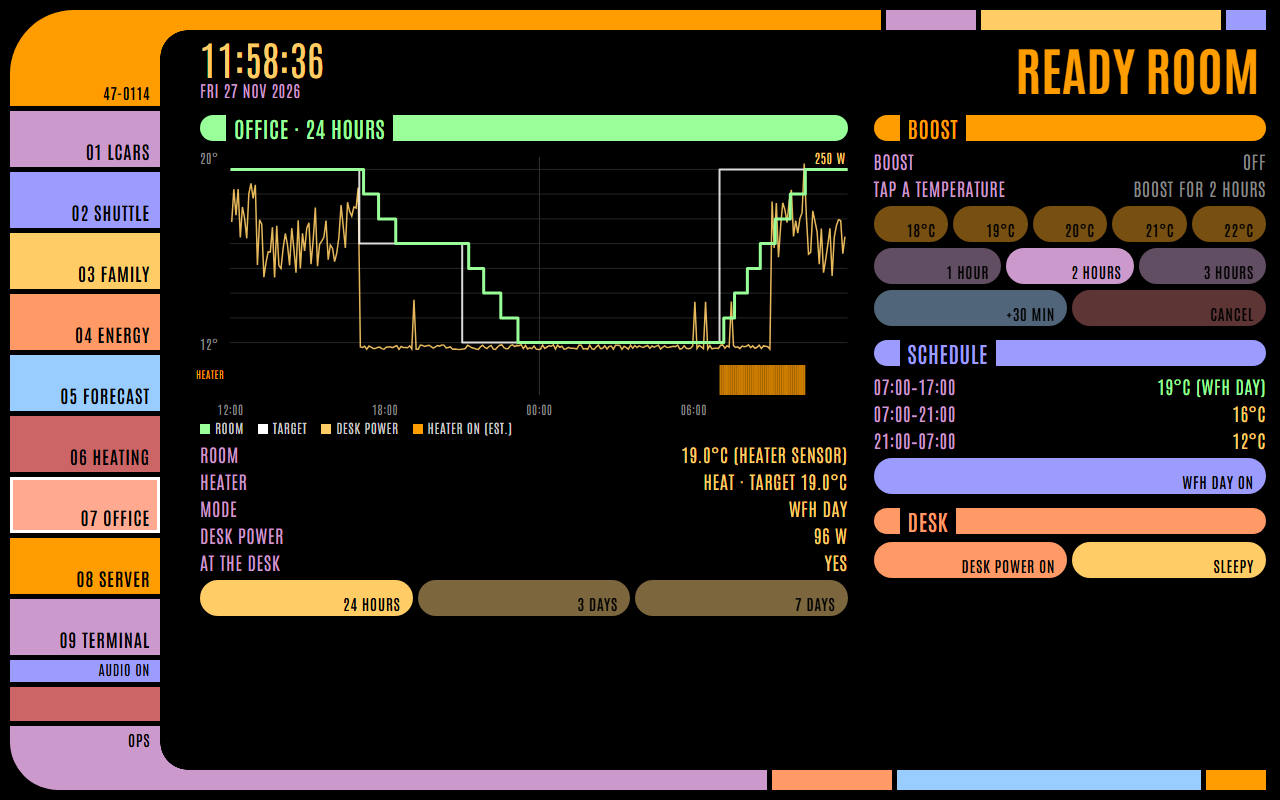
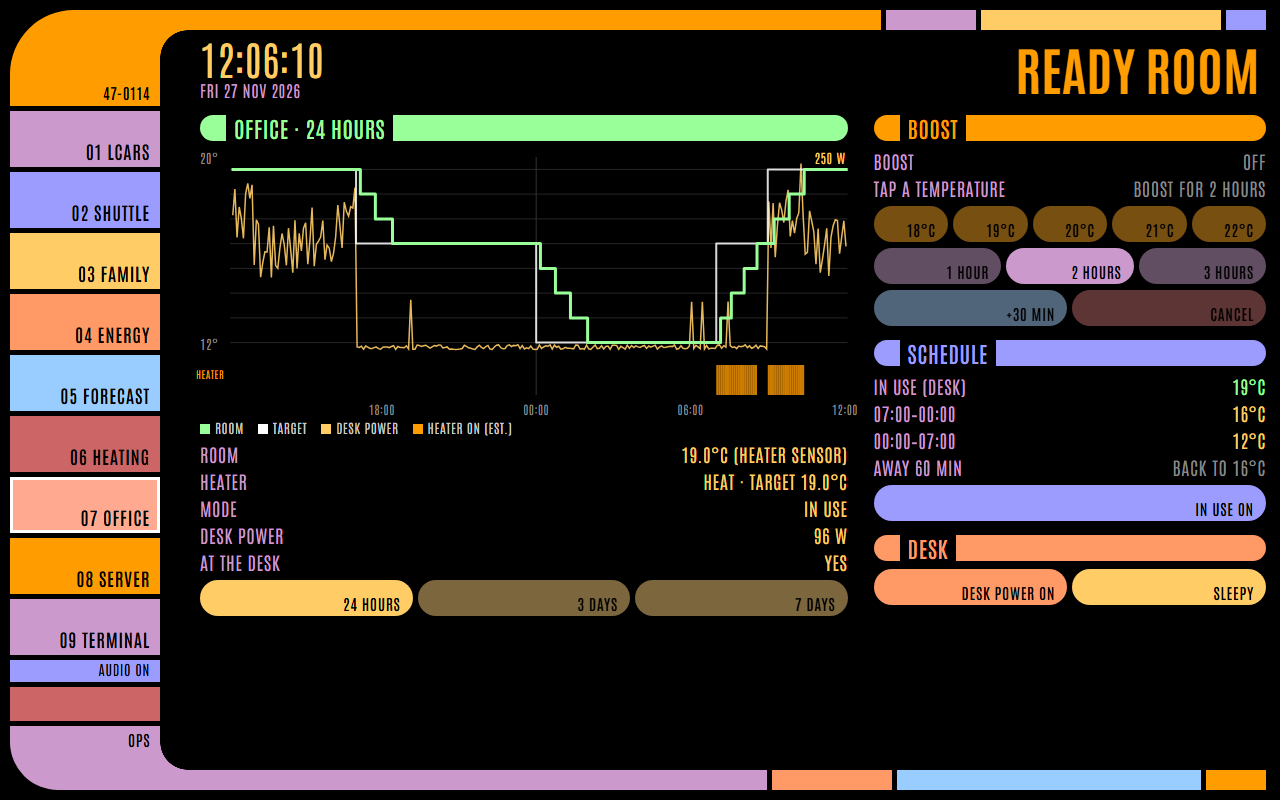
LCARS demo: office schedule 16°C by day, 19°C in use, 12°C after midnight

diff --git a/lcars/tablet-panels.js b/lcars/tablet-panels.js
@@ -1959,8 +1959,10 @@ class LcarsPanelCard extends TabletPanelBase {
     var boosting = tm && tm.state === 'active', bt = num(o.boost_temp), wfh = this._st(o.wfh), work = this._st(o.working);
     var ends = boosting && tm.attributes.finishes_at ? new Date(tm.attributes.finishes_at) : null;
     var hr = new Date().getHours(), wfhOn = wfh && wfh.state === 'on';
+    // Schedule (script.office_heating_apply_schedule): boost, else 19°C in use, 16°C 07:00-midnight, 12°C overnight.
+    var day = hr >= 7;
     var mode = boosting ? 'BOOST ' + (bt == null ? '' : bt.toFixed(0) + '°C ') + (ends ? 'UNTIL ' + this._hhmm(ends) : '')
-      : wfhOn && hr >= 7 && hr < 17 ? 'WFH DAY' : hr >= 7 && hr < 21 ? 'DAYTIME' : 'NIGHT';
+      : day && wfhOn ? 'IN USE' : day ? 'DAYTIME' : 'NIGHT';
 
     // Left: the graph and the room's readings.
     var days = this._ofDays(), d = this._of && this._of.days === days ? this._of : null;
@@ -1990,10 +1992,11 @@ class LcarsPanelCard extends TabletPanelBase {
       ['Tap a temperature', 'BOOST FOR ' + hours + (hours === 1 ? ' HOUR' : ' HOURS'), 'dim']]) + temps + hchips + acts;
 
     // Schedule and the desk.
-    var sched = kv([['07:00–17:00', wfhOn ? '19°C (WFH DAY)' : '16°C', !boosting && wfhOn && hr >= 7 && hr < 17 ? 'hi' : ''],
-      ['07:00–21:00', '16°C', !boosting && !(wfhOn && hr < 17) && hr >= 7 && hr < 21 ? 'hi' : ''],
-      ['21:00–07:00', '12°C', !boosting && (hr >= 21 || hr < 7) ? 'hi' : '']]) +
-      '<div class="chips">' + (o.wfh ? chip(wfhOn, 'of:wfh', 'WFH day ' + (wfhOn ? 'on' : 'off'), LC[2]) : '') + '</div>';
+    var sched = kv([['In use (desk)', '19°C', !boosting && day && wfhOn ? 'hi' : ''],
+      ['07:00–00:00', '16°C', !boosting && day && !wfhOn ? 'hi' : ''],
+      ['00:00–07:00', '12°C', !boosting && !day ? 'hi' : ''],
+      ['Away 60 min', 'BACK TO 16°C', 'dim']]) +
+      '<div class="chips">' + (o.wfh ? chip(wfhOn, 'of:wfh', 'In use ' + (wfhOn ? 'on' : 'off'), LC[2]) : '') + '</div>';
     var sock = this._st(o.socket), sockOn = sock && sock.state === 'on';
     var desk = '<div class="chips">' + (o.socket ? chip(sockOn, 'of:sock', 'Desk power ' + (sockOn ? 'on' : 'off'), LC[4]) : '') +
       (o.scenes || []).map(function (s, i) { return chip(true, 'of:scene:' + i, s.label, LC[3]); }).join('') + '</div>' +
@@ -2039,7 +2042,7 @@ class LcarsPanelCard extends TabletPanelBase {
       this._call('timer', 'cancel', { entity_id: o.timer }, 'OFFICE BOOST CANCEL');
       return;
     }
-    if (p[1] === 'wfh') { tap(); this._call('input_boolean', 'toggle', { entity_id: o.wfh }, 'OFFICE WFH DAY'); return; }
+    if (p[1] === 'wfh') { tap(); this._call('input_boolean', 'toggle', { entity_id: o.wfh }, 'OFFICE IN USE'); return; }
     if (p[1] === 'sock') { tap(); this._call('switch', 'toggle', { entity_id: o.socket }, 'DESK POWER'); return; }
     if (p[1] === 'scene') { var sc = (o.scenes || [])[+p[2]]; if (sc) { tap(); this._call('scene', 'turn_on', { entity_id: sc.entity }, String(sc.label).toUpperCase()); } }
   }

diff --git a/lcars/index.html b/lcars/index.html
@@ -75,7 +75,7 @@
     { id: 'kids_room', name: 'Kids room', short: 'Kids', color: '#cc99cc', loss: 0.013, gain: 0.26,
       sched: [[0, 17], [5.5, 20], [8, 16], [18.5, 20], [19.5, 17]] },
     { id: 'office', name: 'Office', color: '#99ff99', loss: 0.012, gain: 0.30, electric: true,
-      sched: [[0, 12], [7, 19], [17, 16], [21, 12]] },
+      sched: [[0, 12], [7, 16], [9, 19], [17, 16]] },
   ];
   var HSTEP = 5 * 60000, HIST = {}, HHOUR = {};
   (function simulate() {
@@ -262,7 +262,7 @@
         { type: 'script', label: 'Downstairs', entity: 'script.downstairs_boost' },
         { type: 'script', label: 'Whole house', entity: 'script.whole_house_boost' },
         { type: 'script', label: 'Cancel boosts', entity: 'script.cancel_boosts' },
-        { type: 'toggle', label: 'WFH day', entity: 'input_boolean.wfh_day' },
+        { type: 'toggle', label: 'Office in use', entity: 'input_boolean.wfh_day' },
         { type: 'script', label: 'Office boost', entity: 'script.office_boost_toggle', timer: 'timer.office_boost', idle_text: '21°C · 2 HRS' }] },
       { title: 'Shuttle', column: 2, only: 'lcars', car: true },
       { title: 'Vacuum', term_column: 1, items: [{ type: 'vacuum', label: 'Robot', entity: 'vacuum.robot' }] }],
